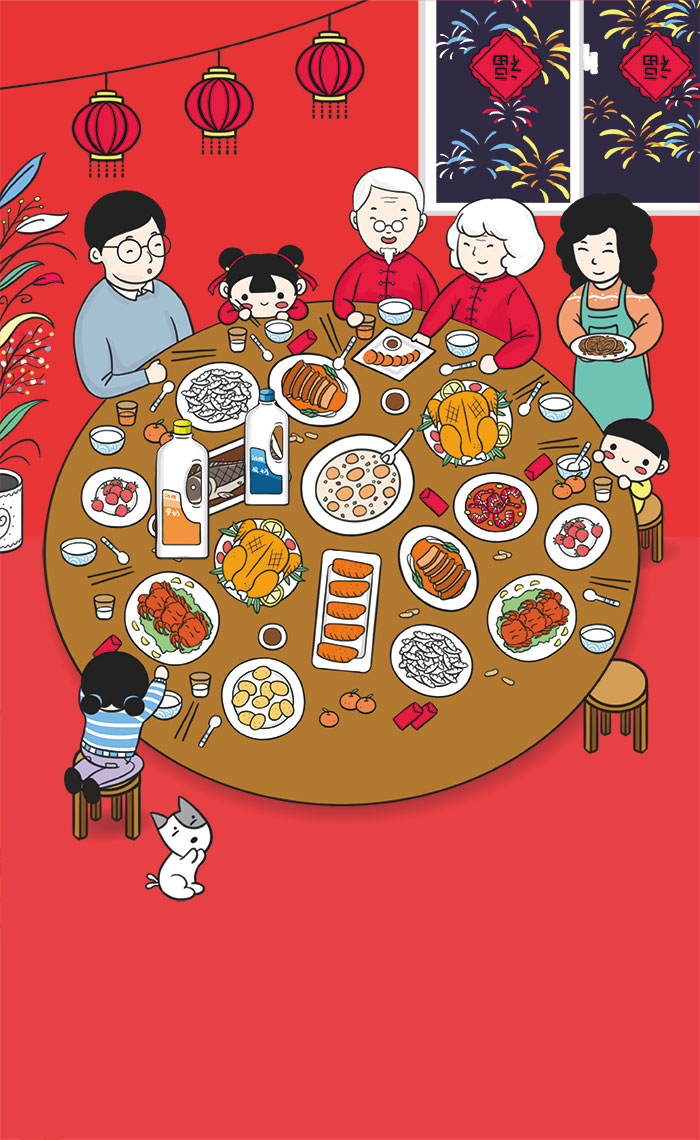
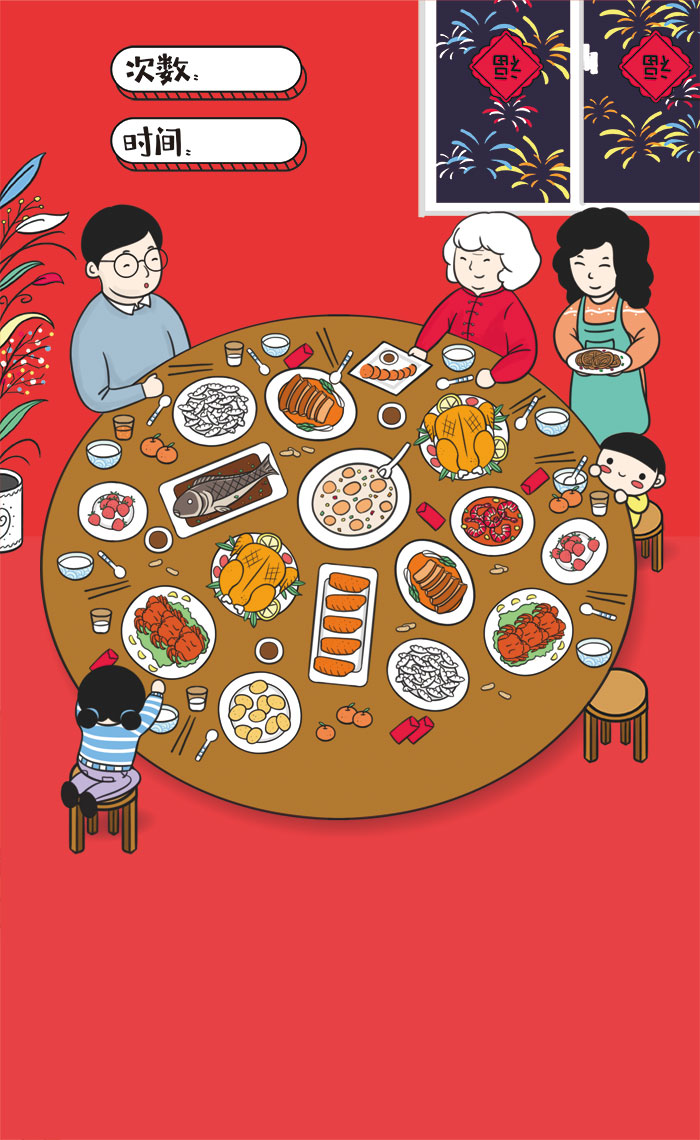
2018-1-9
晚

diff --git a/src/js/index.js b/src/js/index.js
@@ -11,12 +11,23 @@ Room.Loader.ppt = function(){
 Room.Loader.start = function(){
     $("#Loader .word").hide();
     $("#Loader .btnWord").show();
+
+    $("#Loader .tit").velocity({ translateY:0, opacity:1 }, { duration: 100});
+    $("#Loader .btn").velocity({ rotateZ:["-1deg","1deg"] }, { easing:"linear", duration: 100, loop: true});
+
 };
 Room.Loader.dom = function(){
+
     $("#Loader .btn").tap(function(e){
         cc.tap(e);
         Room.Loader.ppt();
     });
+
+    $("#Loader .tit").velocity({ translateY:-600, opacity:0 }, { duration: 0});
+
+};
+Room.Loader.going = function(){
+    $("#Loader .btn").velocity("stop")
 };
 
 
@@ -50,39 +61,52 @@ Room.Index.dom = function(){
     });
 };
 
-Room.Index.nai = function(){
-    an_nai.play();
+Room.Index.end = function(){
+    if(Dom.ClickT>=40) {
+        an_nai.play();
+        setTimeout(Room.Index.ppt1, 1000)
+    }else Room.Index.ppt2();
 };
 
-Room.Index.coming = function(){
+Room.Index.come_before = function(next){
+
+    $("#Index .girl").velocity({ rotateZ:["-1deg","4deg"] }, { duration: 1000, loop: true});
+
     $("#Index .call1").velocity({ rotateZ:["-1deg","1deg"] }, { easing:"linear", duration: 100, loop: true});
     $("#Index .point").velocity({ translateX:[-8, 0] }, { duration: 500, loop: true});
+
+    next();
 };
 
 Room.Index.come_after = function () {
     var ts = 10;
-    Dom.TimeHand = setInterval(function(){
-        $("#Time").html(--ts);
-        if(ts==0){
-            clearInterval(Dom.TimeHand);
-            Dom.unClick = false;
-            Room.Index.nai();
-        }
-    },1000);
+    // Dom.TimeHand = setInterval(function(){
+    //     $("#Time").html(--ts);
+    //     if(ts==0){
+    //         clearInterval(Dom.TimeHand);
+    //         Dom.unClick = false;
+    //         Room.Index.end()
+    //     }
+    // },1000);
 };
 
-Room.Index.go_after = function () {
-    // $("#Index .topWheel").velocity("stop");
-    // $("#Index .bottomWheel").velocity("stop");
+Room.Index.going = function () {
+    $("#Index .call1").velocity("stop");
+    $("#Index .point").velocity("stop");
 };
 
-// Room.Index.ppt = function(){
-//     var start = "GameLoad1";
-//     cc.ppt(["Index", start] , function(after , callback){
-//         cc.m["Index"].velocity({ opacity: 0}, { duration: 1000, display: "none" });
-//         cc.m[start].css({"opacity": 0}).show().velocity({ opacity: 1}, { duration: 1000, complete:function(){
-//             after.go();
-//             GameLoad1();
-//         }});
-//     })
-// };
+Room.Index.ppt1 = function(){
+    cc.ppt(["Index", "Tel"] , function(after , callback){
+        cc.m["Tel"].css({"opacity": 0}).show().velocity({ opacity: 1}, { duration: 500, complete:function(){
+            after.go();
+        }});
+    })
+};
+
+Room.Index.ppt2 = function(){
+    cc.ppt(["Index", "Fail"] , function(after , callback){
+        cc.m["Fail"].css({"opacity": 0}).show().velocity({ opacity: 1}, { duration: 500, complete:function(){
+            after.go();
+        }});
+    })
+};

diff --git a/src/js/init.js b/src/js/init.js
@@ -9,11 +9,18 @@ function loader() {
     // Loads.loads("mp3_bg",  "mp3/", "bg.mp3");
 
     Loads.loads("loadword",  "img/", "loadword.png");
+    Loads.loads("loadtit",  "img/", "tit.png");
+
     Loads.loads("bg",  "img/", "bg.jpg");
     Loads.loads("call1",  "img/", "call1.png");
     Loads.loads("call2",  "img/", "call2.png");
     Loads.loads("point",  "img/", "point.png");
     // Loads.loads("nai",  "img/", "nai.png");
+
+    Loads.loads("girl",  "img/family/", "girl.png");
+
+    Loads.loads("yeye1",  "img/family/", "yeye1.png");
+    Loads.loads("yeye2",  "img/family/", "yeye2.png");
 
     Loads.progress = function(e){
         var i = parseInt(e.loaded*100);
@@ -25,15 +32,40 @@ function loader() {
     Loads.complete = function(){
 
         $("#Loader .btnWord").html(Loads.get("loadword"));
+        $("#Loader .tit").html(Loads.get("loadtit"));
 
         $("#Index .bg").html(Loads.get("bg"));
         $("#Index .call1").html(Loads.get("call1"));
         $("#Index .call2").html(Loads.get("call2"));
         $("#Index .point").html(Loads.get("point"));
-        $("#Index .nai").html(Loads.get("nai"));
+
+        $("#Index .girl").html(Loads.get("girl"));
+
+        fcavcas();
 
         // mp3_play("bg", 1);
         setTimeout(Room.Loader.start, 300);
     };
     Loads.loading();
+}
+
+var fcav;
+function fcavcas(){
+
+    fcav = new CanvasCreate($("#fcanvas"));
+
+    fcav.ccv("f");
+    //fcav.drawImg("yeye1","f");
+    fcav.drawPhotos("yeye", "f",  "yeye", 2, {
+        frames:[0,0,113,168],
+        framerate: 1.5,
+        mov: {
+            ini: [0,1]
+        },
+        conf:{
+            x:324, y:179
+        }
+    });
+    fcav.show("f");
+
 }

diff --git a/index.html b/index.html
@@ -35,9 +35,14 @@
 
     <section class="cc " id="Loader">
         <div class="main">
-            <div class="word"></div>
-            <div class="btnWord"></div>
-            <div class="btn"></div>
+
+            <div class="tit"></div>
+
+            <div class="btn">
+                <div class="word"></div>
+                <div class="btnWord"></div>
+            </div>
+
         </div>
     </section>
 
@@ -54,18 +59,33 @@
             </div>
 
             <div class="point"></div>
-            <!--<div class="nai"></div>-->
 
-            <canvas id="nai_canvas" width="700" height="1140"></canvas>
+            <div class="girl"></div>
+            <canvas id="fcanvas" width="700" height="1140"></canvas>
+
+            <!--<canvas id="nai_canvas" width="700" height="1140"></canvas>-->
 
             <div class="call_btn"></div>
+
+            <div class="mash"></div>
 
         </div>
     </section>
 
-    <section class="cc " id="Read">
+    <section class="cc " id="Tel">
         <div class="main">
-            <div class="bg"></div>
+            <div class="end"></div>
+            <div class="tel"></div>
+
+            <input type="text">
+            <div class="btn"></div>
+        </div>
+    </section>
+
+    <section class="cc " id="Fail">
+        <div class="main">
+            <div class="end"></div>
+            <div class="fail"></div>
         </div>
     </section>
 

diff --git a/src/css/index.css b/src/css/index.css
@@ -7,18 +7,11 @@
 #Loader .main{
     background: url(../../img/loading.jpg);
 }
-#Loader img{
-    /*position: absolute;*/
-    /*top: 232px;*/
-    /*left: 307px;*/
-    /*width: 85px;*/
-    /*height: 659px;*/
-}
 #Loader .word{
     position: absolute;
     width: 352px; height: 98px;
-    top: 952px;
-    left: 158px;
+    top: 0px;
+    left: 0px;
     line-height: 98px;
     text-align: center;
     color: #000000;
@@ -28,15 +21,20 @@
 #Loader .btnWord{
     position: absolute;
     width: 314px; height: 61px;
-    left: 175px; top: 972px;
+    left: 20px; top: 20px;
     display: none;
 }
 #Loader .btn{
     position: absolute;
-    width: 352px; height: 98px;
-    left: 158px; top: 952px;
+    width: 364px; height: 117px;
+    left: 154px; top: 951px;
+    background: url(../../img/btn.png);
 }
-
+#Loader .tit{
+    position: absolute;
+    width: 465px; height: 400px;
+    left: 129px; top: 43px;
+}
 
 
 /*Index*/
@@ -70,10 +68,10 @@
     width: 214px; height: 127px;
     left: 40px; top: 930px;
 }
-#Index .nai{
+#Index .girl{
     position: absolute;
-    width: 115px; height: 248px;
-    left: 568px; top: 658px;
+    width: 108px; height: 82px;
+    left: 210px; top: 260px;
 }
 
 #Time{

diff --git a/php/send.php b/php/send.php
@@ -1,0 +1,24 @@
+<?php
+$ch = curl_init();
+//$arr = '{"batchName":"玄武科技测试","items":[{"to":"15030258111"}],"content":"玄武科技通道测试短信","msgType":"sms ","bizType":"100"}';
+$arr = '{"batchName":"一鸣2018H5","items":[{"to":"13806693084"}],"content":"这是发给自己的测试短信","msgType":"sms ","bizType":"100"}';
+// $code = base64_encode("zjymsp@zjymsp:".md5(""));
+// echo $code;
+// exit;
+
+curl_setopt($ch, CURLOPT_URL, 'http://183.232.76.34:9051/api/v1.0.0/message/mass/send');
+curl_setopt($ch, CURLOPT_RETURNTRANSFER, 1);
+// post数据
+curl_setopt($ch, CURLOPT_POST, 1);
+// post设置头
+curl_setopt($ch, CURLOPT_PROXY, '183.232.76.34:9051');//设置代理服务器 
+curl_setopt($ch, CURLOPT_HTTPHEADER, array('Content-Type: application/json; charset=utf-8', 'Content-Length:' . strlen ($arr), 'Accept: application/json', 'Authorization: emp5bXNwQHpqeW1zcDo2MjRjNjRmZDVlMGQwMWYwMzA1N2NlZTNkMzUyY2I0Yg=='));
+
+// post的变量
+curl_setopt($ch, CURLOPT_POSTFIELDS, $arr);
+
+$output = curl_exec($ch);
+curl_close($ch);
+
+//打印获得的数据
+print_r($output);
